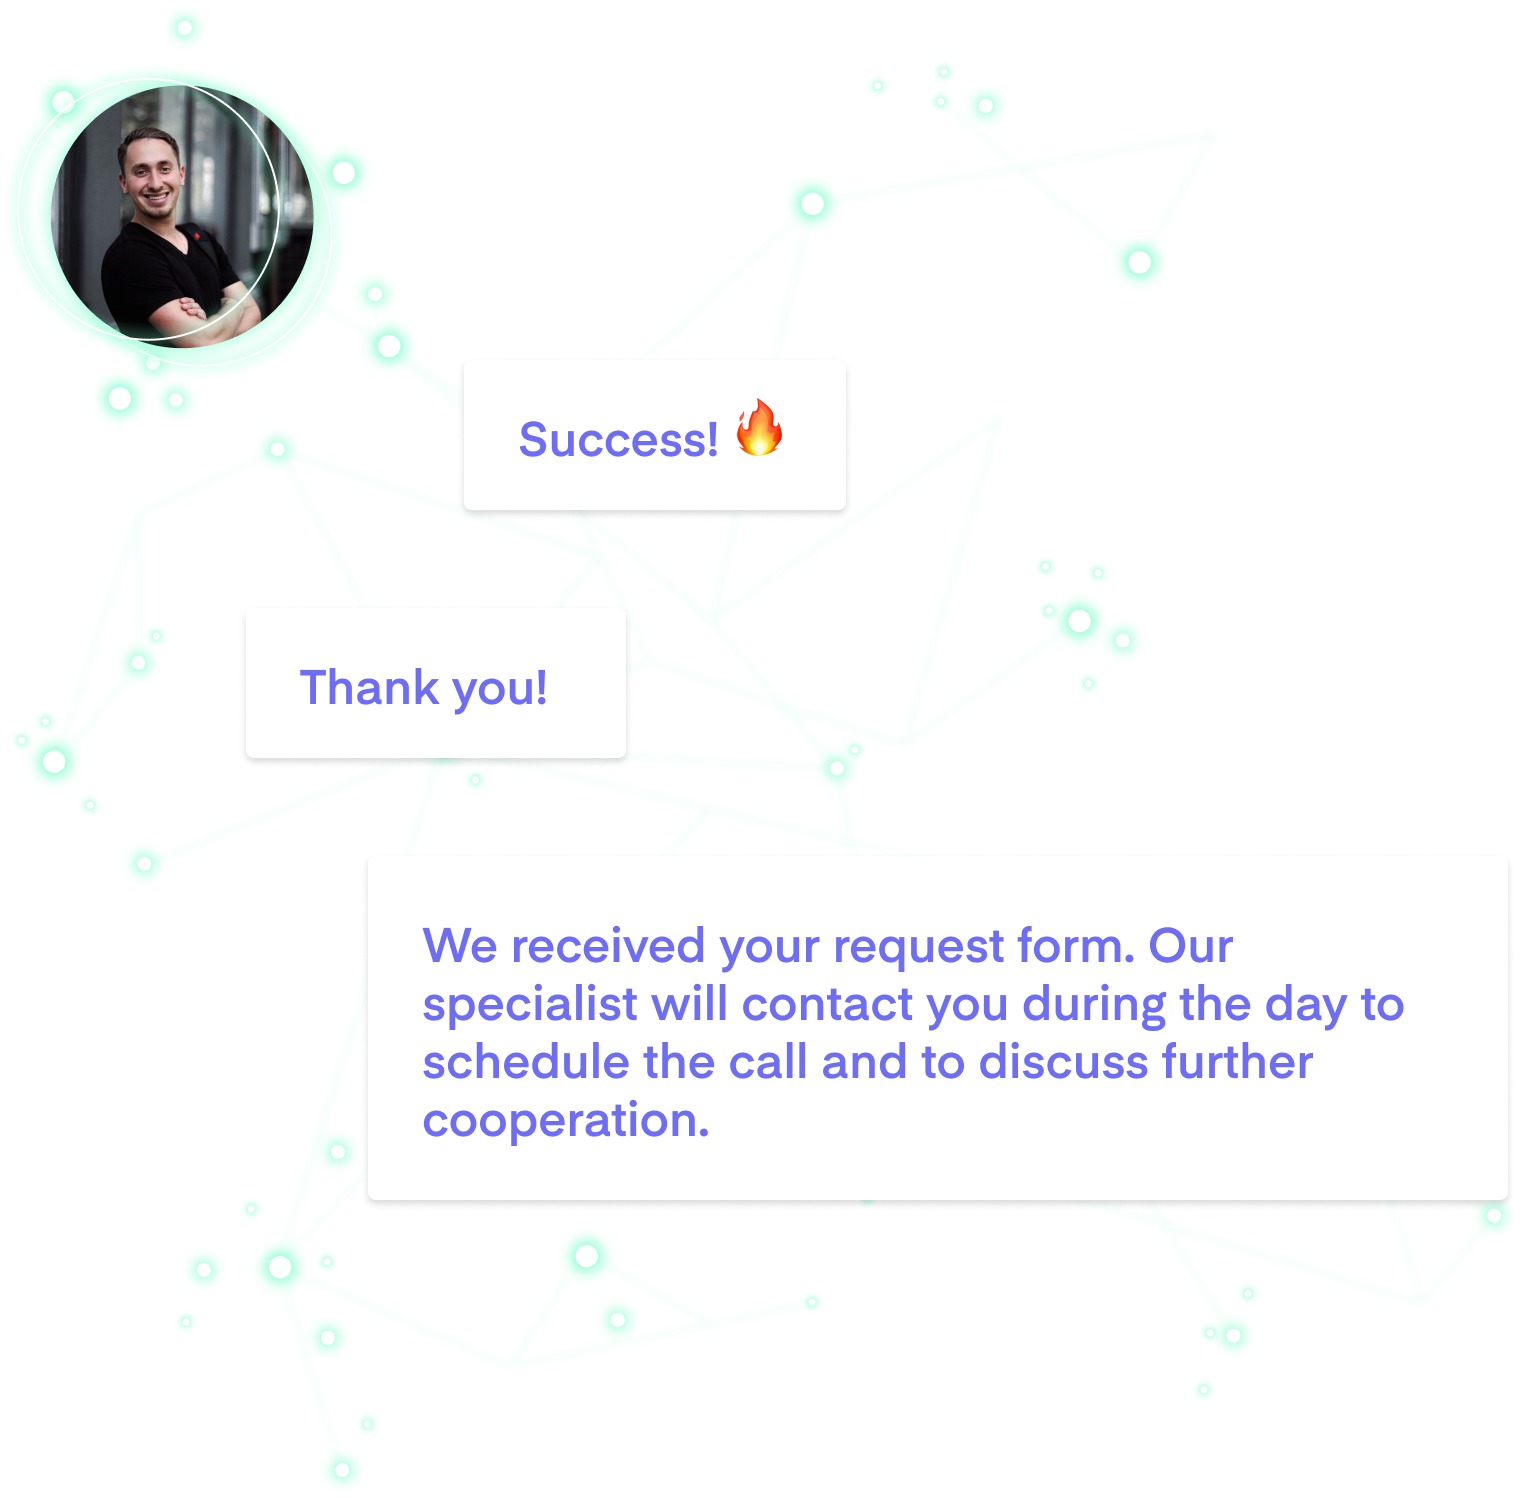
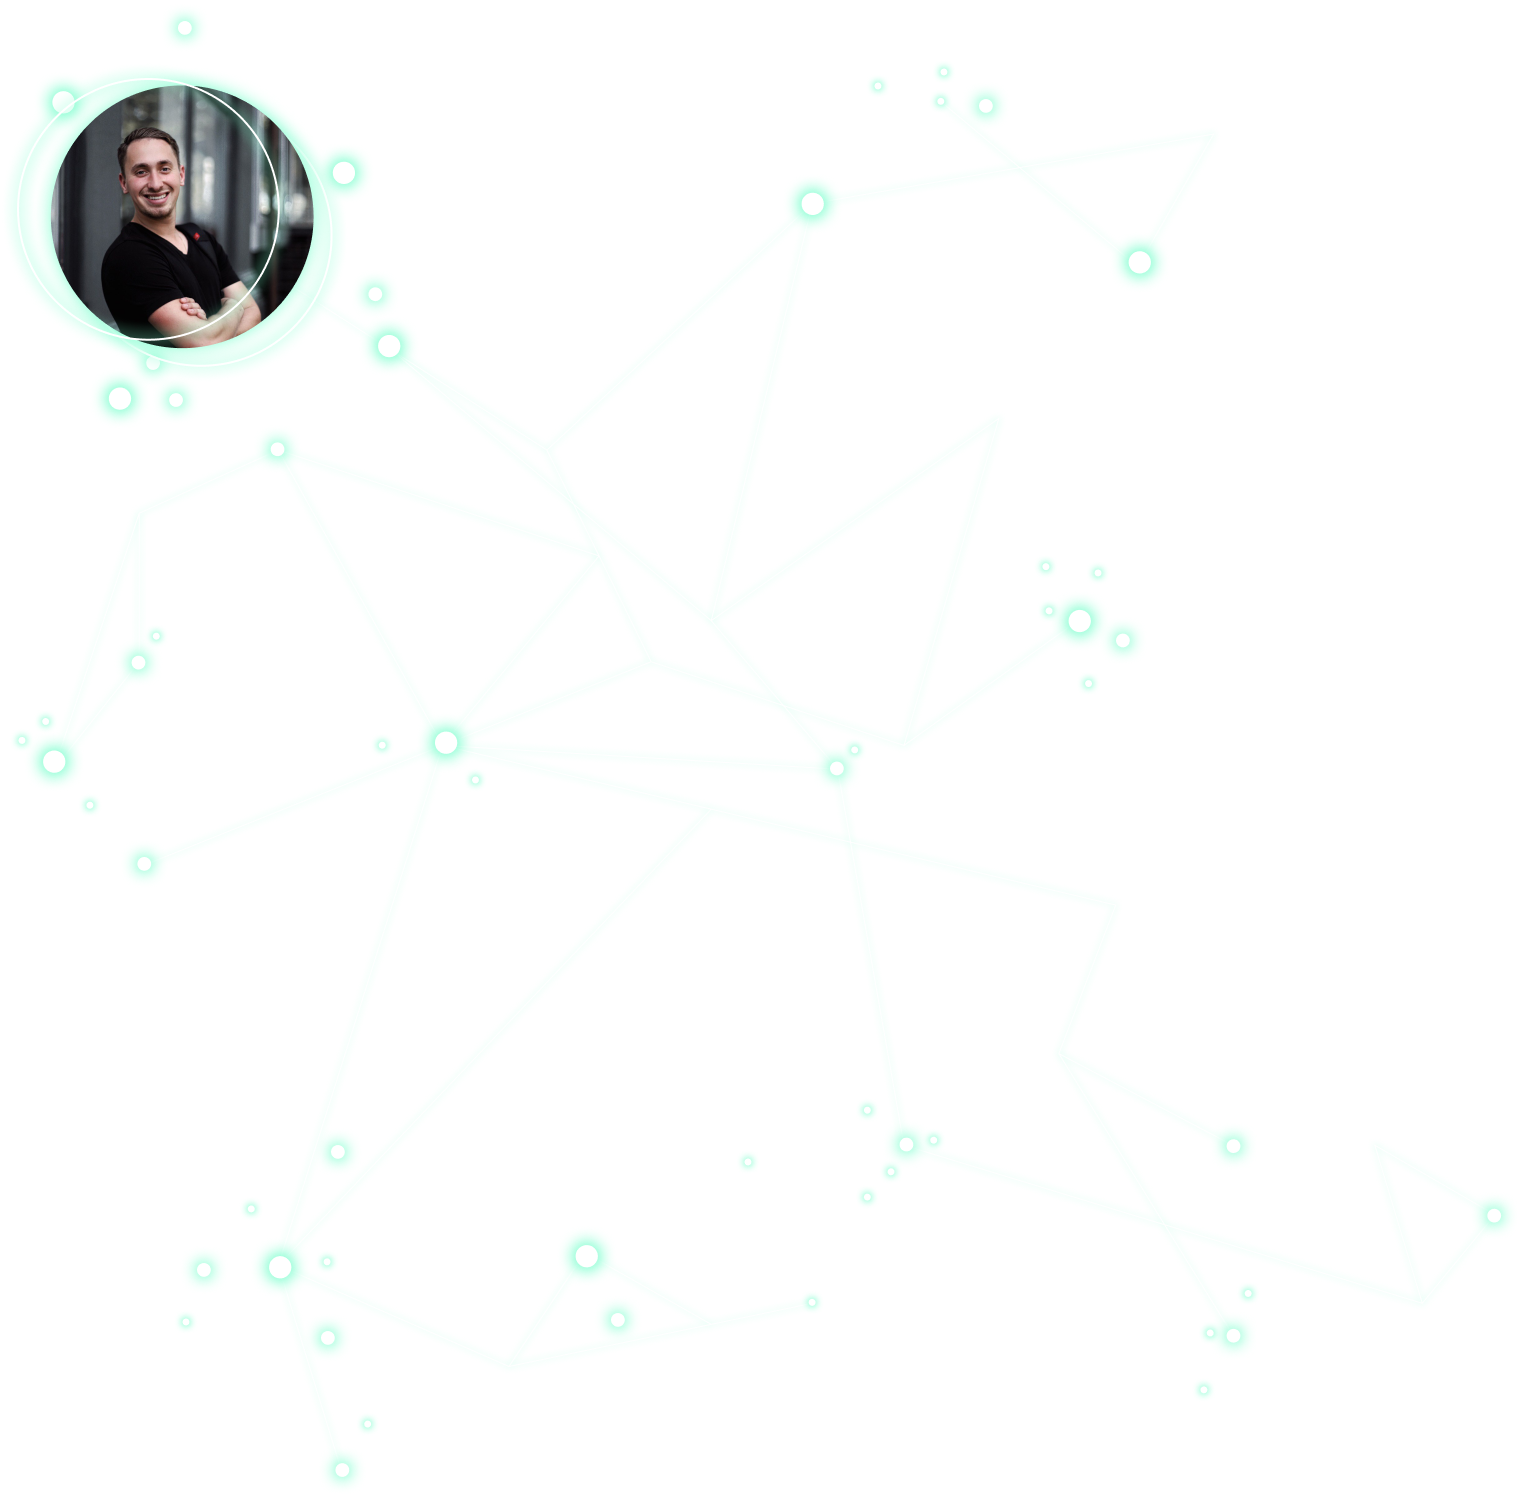
updated contact form design

Changed region(s): [[0.2779, 0.6142, 0.9264, 0.7677], [0.1853, 0.4299, 0.3397, 0.522], [0.3397, 0.2764, 0.525, 0.3071]]

diff --git a/src/pages/LandingPages/components/ContactForm/ContactForm.js b/src/pages/LandingPages/components/ContactForm/ContactForm.js
@@ -1,17 +1,18 @@
-import React, {useEffect, useState} from "react";
-import contactFormImage from "../../../../assets/img/landing-automation/contact-form-image.png";
-import sendProcessingImage from "../../../../assets/img/landing-automation/send-processing.svg";
-import thankImage from "../../../../assets/img/landing-automation/thank-image.png";
-import {Checkbox, Input, Radio, Select} from "antd";
-import TreeSelect from "../../../../components/TreeSelect/TreeSelect";
-import CustomSelect from "../../../../components/Select/Select";
-import {SVG} from "../../../../utils/icons";
-import {Link} from "react-router-dom";
-import {notification} from "../../../../components/Notification";
-import {userService} from "../../../../services/user.services";
-import './ContactForm.less';
+import React, {useEffect, useState} from "react"
+import contactFormImage from "../../../../assets/img/landing-automation/contact-form-image.png"
+import sendProcessingImage from "../../../../assets/img/landing-automation/send-processing.svg"
+import thankImage from "../../../../assets/img/landing-automation/thank-image.png"
+import fireImage from "../../../../assets/img/landing-automation/fire.png"
+import {Checkbox, Input, Radio, Select} from "antd"
+import TreeSelect from "../../../../components/TreeSelect/TreeSelect"
+import CustomSelect from "../../../../components/Select/Select"
+import {SVG} from "../../../../utils/icons"
+import {Link} from "react-router-dom"
+import {notification} from "../../../../components/Notification"
+import {userService} from "../../../../services/user.services"
+import './ContactForm.less'
 
-const Option = Select.Option;
+const Option = Select.Option
 
 
 const defaultForm = {
@@ -25,7 +26,7 @@ const defaultForm = {
     main_goal: undefined,
     storefront_name: undefined,
     main_category: undefined,
-};
+}
 
 const advertisingStrategyVariations = [
     {
@@ -95,13 +96,13 @@ const advertisingStrategyVariations = [
         sales: 2,
         acos: 1
     },
-];
+]
 
 
 const ContactForm = () => {
     const [contactFormParams, setContactFormParams] = useState({...defaultForm}),
         [agreeWithTerms, setAgreeWithTerms] = useState(false),
-        [formState, setFormState] = useState(false);
+        [formState, setFormState] = useState(false)
 
 
     const changeContactFormHandler = (name, value) => {
@@ -109,26 +110,26 @@ const ContactForm = () => {
             ...contactFormParams,
             [name]: value
         })
-    };
+    }
 
     const changeMultiSelectHandler = (event) => {
-        const options = event.target.options;
-        let value = [];
+        const options = event.target.options
+        let value = []
 
         for (let i = 0, l = options.length; i < l; i++) {
             if (options[i].selected) {
-                value.push(options[i].value);
+                value.push(options[i].value)
             }
         }
 
         setContactFormParams({
             ...contactFormParams,
             active_marketplaces: value
-        });
-    };
+        })
+    }
 
     const submitFormHandler = async (e) => {
-        e.preventDefault();
+        e.preventDefault()
 
         if (Object.values(contactFormParams).some(item => item == undefined) || !agreeWithTerms) {
             notification.error({title: 'All fields is required!'})
@@ -137,21 +138,21 @@ const ContactForm = () => {
                 await userService.sendContactForm({
                     ...contactFormParams,
                     // active_marketplaces: contactFormParams.active_marketplaces.join(',')
-                });
+                })
 
-                setFormState(true);
-                setAgreeWithTerms(false);
+                setFormState(true)
+                setAgreeWithTerms(false)
             } catch (e) {
-                console.log(e);
+                console.log(e)
             }
         }
-    };
+    }
 
 
     const backToForm = () => {
-        setContactFormParams(defaultForm);
-        setFormState(false);
-    };
+        setContactFormParams(defaultForm)
+        setFormState(false)
+    }
 
     return (
         <>
@@ -164,14 +165,33 @@ const ContactForm = () => {
                     </div>
 
                     <div className={`screen thank-block ${formState && 'active'}`}>
-                        <div className="user-name">
-                            Hey {contactFormParams.first_name}!
-                        </div>
-                        <img src={thankImage} alt=""/>
+                        <div className="text">
+                            <div className="user-name">
+                                Hey {contactFormParams.first_name}!
+                            </div>
 
-                        <button className={'btn'} onClick={backToForm}>
-                            back to form
-                        </button>
+                            <div>
+                                Success!
+
+                                <img src={fireImage} alt=""/>
+                            </div>
+                            <div>
+                                Thank you!
+                            </div>
+
+                            <div>
+                                We received your request form. Our <br/>
+                                specialist will contact you during the day to <br/>
+                                schedule the call and to discuss further <br/>
+                                cooperation.
+                            </div>
+
+                            <button className={'btn'} onClick={backToForm}>
+                                back to form
+                            </button>
+                        </div>
+
+                        <img src={thankImage} alt=""/>
                     </div>
 
                     <form className={`screen ${!formState && 'active'}`} onSubmit={submitFormHandler}>
@@ -495,6 +515,6 @@ const ContactForm = () => {
             </section>
         </>
     )
-};
+}
 
-export default ContactForm;
+export default ContactForm

diff --git a/src/pages/LandingPages/components/ContactForm/ContactForm.less b/src/pages/LandingPages/components/ContactForm/ContactForm.less
@@ -303,16 +303,51 @@
   }
 
   .thank-block {
-    width: 50vw;
-    height: 50vw;
+    width: 45vw;
+    height: 45vw;
     margin: auto 0 auto auto;
     display: flex;
 
-    .btn {
-      position: absolute;
-      right: 290px;
-      bottom: 30px;
+    .text {
 
+      position: absolute;
+      left: 150px;
+      top: 50px;
+      bottom: 0;
+
+      display: flex;
+      flex-direction: column;
+      justify-content: space-around;
+
+      div {
+        display: flex;
+        align-items: center;
+        width: max-content;
+        padding: 20px 27px;
+
+        background: #FFFFFF;
+        box-shadow: 0px 2px 4px rgba(0, 0, 0, 0.15);
+        border-radius: 4px;
+        color: #6D6DF6;
+        font-size: 20px;
+        font-weight: 500;
+
+        &:nth-child(1),
+        &:nth-child(2),
+        &:nth-child(4)
+        {
+          margin-left: 100px;
+        }
+
+        img {
+          width: 29px;
+          height: 29px;
+          margin: 0 0 0 5px;
+        }
+      }
+    }
+
+    .btn {
       height: 56px;
       background: #83FED0;
       font-size: 21px;
@@ -326,21 +361,9 @@
     }
 
     .user-name {
-      height: 60px;
       display: flex;
       align-items: center;
-      position: absolute;
-      left: 300px;
-      top: 50px;
-      padding: 0 27px;
 
-      background: #FFFFFF;
-      box-shadow: 0px 2px 4px rgba(0, 0, 0, 0.15);
-      border-radius: 4px;
-
-      color: #6D6DF6;
-      font-size: 20px;
-      font-weight: 500;
     }
 
     img {
